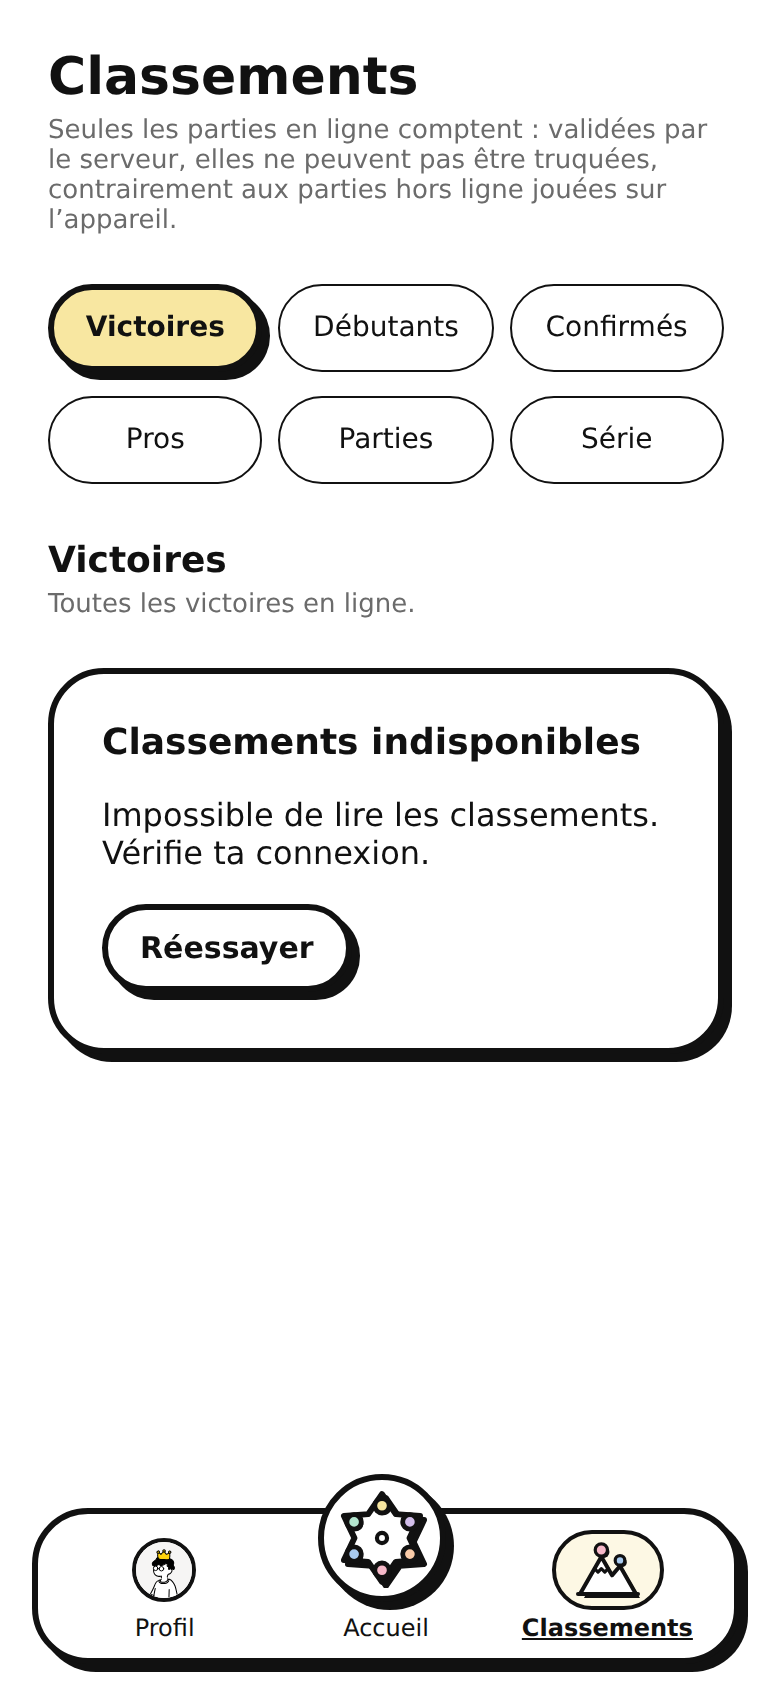
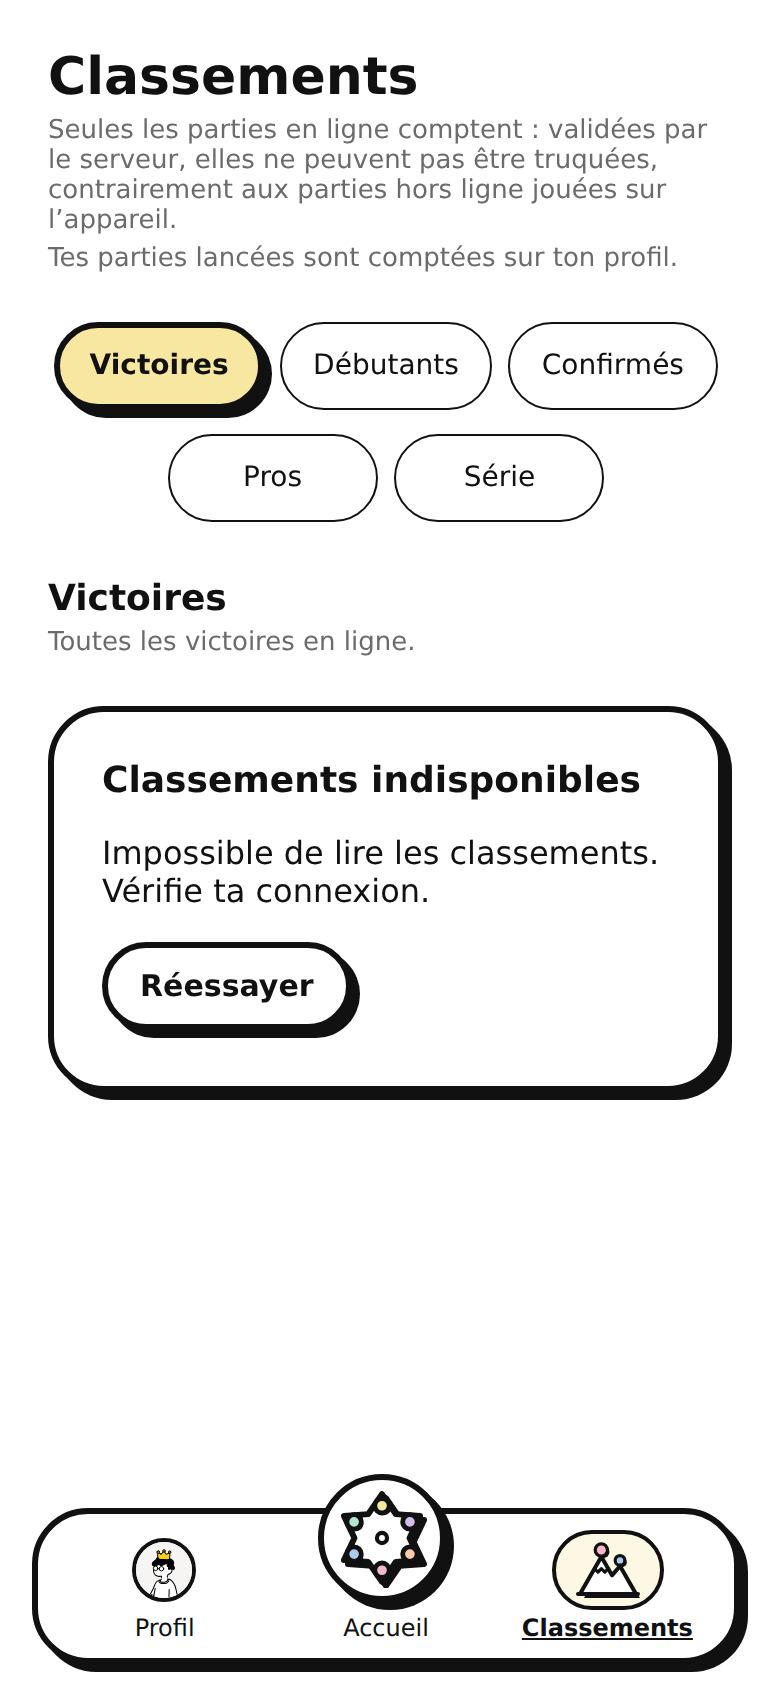
Drop the "games started" leaderboard, keep the count on the profile
- New migration redefines get_leaderboards with five boards (same
  signature and columns); games_started, its date and the counting in
  begin_game are unchanged, and players still read their own count.
- /leaderboard: five tabs (three then two, same width, centred); types,
  labels and service updated; rows for an unknown board are ignored.
- stats-check.sql: no games_started board any more, top 50 checked on
  the streak board, games_started still increments at launch.
- README/PLAN: five boards, and a note that leaderboards are not
  protected against scripts or colluding accounts (deliberate for now).
- Restore the repo's quote style in podium-badge.tsx.

Claude-Session: https://claude.ai/code/session_01YUV4RLnoNu5hBPVx7djLMc

diff --git a/src/components/leaderboard/podium-badge.tsx b/src/components/leaderboard/podium-badge.tsx
@@ -1,6 +1,6 @@
-import Svg, { Circle, Rect, Text as SvgText } from "react-native-svg";
+import Svg, { Circle, Rect, Text as SvgText } from 'react-native-svg';
 
-import { Colors, playerColor, Stroke, Typography } from "@/constants/theme";
+import { Colors, playerColor, Stroke, Typography } from '@/constants/theme';
 
 /** Marches du podium, de gauche à droite : 2e, 1er, 3e (boîte 42 × 36). */
 const STEPS = [
@@ -9,28 +9,19 @@ const STEPS = [
   { place: 3, x: 28, width: 13, height: 10 },
 ] as const;
 const GROUND = 34;
-/** Couleur du pion posé sur la marche du joueur. */
-const PION_COLORS = {
-  1: playerColor(3).piece,
-  2: playerColor(1).piece,
-  3: playerColor(5).piece,
-} as const;
+/** Joueur (couleur pastel) de chaque place : citron, bleu, pêche. */
+const PLACE_PLAYER = { 1: 3, 2: 1, 3: 5 } as const;
 
 /**
  * Podium dessiné pour les trois premiers : la marche du joueur est teintée,
  * porte son numéro et un pion. La place se lit donc à la forme (hauteur et
  * position de la marche) et au chiffre, pas seulement à la couleur.
  */
-export function PodiumBadge({
-  place,
-  size = 42,
-}: {
-  place: 1 | 2 | 3;
-  size?: number;
-}) {
+export function PodiumBadge({ place, size = 42 }: { place: 1 | 2 | 3; size?: number }) {
   const step = STEPS.find((s) => s.place === place)!;
   const top = GROUND - step.height;
   const cx = step.x + step.width / 2;
+  const color = playerColor(PLACE_PLAYER[place]);
   return (
     <Svg width={size} height={(size * 36) / 42} viewBox="0 0 42 36">
       {STEPS.map((s) => (
@@ -40,11 +31,7 @@ export function PodiumBadge({
           y={GROUND - s.height}
           width={s.width}
           height={s.height}
-          fill={
-            s.place === place
-              ? playerColor(s.place === 1 ? 3 : s.place === 2 ? 1 : 5).tint
-              : Colors.paper
-          }
+          fill={s.place === place ? color.tint : Colors.paper}
           stroke={Colors.ink}
           strokeWidth={s.place === place ? Stroke.bold * 0.8 : Stroke.thin}
         />
@@ -56,19 +43,11 @@ export function PodiumBadge({
         fontWeight="900"
         fontFamily={Typography.heading.fontFamily}
         fill={Colors.ink}
-        textAnchor="middle"
-      >
+        textAnchor="middle">
         {place}
       </SvgText>
       <Circle cx={cx + 0.8} cy={top - 4.2} r={3.6} fill={Colors.ink} />
-      <Circle
-        cx={cx}
-        cy={top - 5}
-        r={3.6}
-        fill={PION_COLORS[place]}
-        stroke={Colors.ink}
-        strokeWidth={Stroke.thin}
-      />
+      <Circle cx={cx} cy={top - 5} r={3.6} fill={color.piece} stroke={Colors.ink} strokeWidth={Stroke.thin} />
     </Svg>
   );
 }

diff --git a/src/stats/__tests__/leaderboard.test.ts b/src/stats/__tests__/leaderboard.test.ts
@@ -22,13 +22,12 @@ const row = (board: string, rank: number | null, pseudo: string, score: number, 
 });
 
 describe('classements', () => {
-  it('a six classements, dans l’ordre demandé', () => {
+  it('a cinq classements, dans l’ordre demandé (plus de « Parties lancées »)', () => {
     expect(BOARDS.map((b) => BOARD_INFO[b].title)).toEqual([
       'Victoires',
       'Hall des débutants',
       'Hall des confirmés',
       'Hall des pros',
-      'Parties lancées',
       'Série de connexion',
     ]);
   });
@@ -47,10 +46,10 @@ describe('classements', () => {
   });
 
   it('met à part la ligne du joueur hors du top 50', () => {
-    const top = Array.from({ length: 50 }, (_, i) => row('games_started', i + 1, `J${i + 1}`, 100 - i));
-    const views = groupLeaderboards([...top, row('games_started', 73, 'Moi', 4, true)]);
-    expect(views.games_started.top).toHaveLength(50);
-    expect(views.games_started.me).toMatchObject({ rank: 73, pseudo: 'Moi', score: 4, isMe: true });
+    const top = Array.from({ length: 50 }, (_, i) => row('best_streak', i + 1, `J${i + 1}`, 100 - i));
+    const views = groupLeaderboards([...top, row('best_streak', 73, 'Moi', 4, true)]);
+    expect(views.best_streak.top).toHaveLength(50);
+    expect(views.best_streak.me).toMatchObject({ rank: 73, pseudo: 'Moi', score: 4, isMe: true });
   });
 
   it('garde la ligne du joueur pas encore classé (rang null, score 0)', () => {
@@ -63,12 +62,17 @@ describe('classements', () => {
     expect(() => groupLeaderboards([row('triche', 1, 'X', 1000)])).not.toThrow();
   });
 
+  it('ignore les « parties lancées » d’un serveur pas encore migré', () => {
+    const views = groupLeaderboards([row('games_started', 1, 'Alice', 40), row('wins', 1, 'Alice', 2)]);
+    expect(Object.keys(views)).toEqual(['wins', 'wins_easy', 'wins_medium', 'wins_hard', 'best_streak']);
+    expect(views.wins.top).toHaveLength(1);
+  });
+
   it('écrit les scores avec leur unité, au singulier et au pluriel', () => {
     expect(formatUnit('wins_easy', 3)).toBe('victoires');
     expect(formatScore('wins', 0)).toBe('0 victoire');
     expect(formatScore('wins_hard', 1)).toBe('1 victoire');
     expect(formatScore('wins', 12)).toBe('12 victoires');
-    expect(formatScore('games_started', 2)).toBe('2 parties');
     expect(formatScore('best_streak', 1)).toBe('1 jour');
     expect(formatScore('best_streak', 30)).toBe('30 jours');
   });

diff --git a/src/stats/leaderboard.ts b/src/stats/leaderboard.ts
@@ -1,7 +1,8 @@
-// Classements : les six tableaux, et la mise en forme des lignes renvoyées par
+// Classements : les cinq tableaux, et la mise en forme des lignes renvoyées par
 // la fonction SQL `get_leaderboards` (migration player_stats). Logique pure.
 
-export const BOARDS = ['wins', 'wins_easy', 'wins_medium', 'wins_hard', 'games_started', 'best_streak'] as const;
+// Les parties lancées sont comptées (profil) mais ne font pas l'objet d'un classement.
+export const BOARDS = ['wins', 'wins_easy', 'wins_medium', 'wins_hard', 'best_streak'] as const;
 
 export type Board = (typeof BOARDS)[number];
 
@@ -31,7 +32,6 @@ export const BOARD_INFO: Record<Board, BoardInfo> = {
     tab: 'Pros',
     description: 'Victoires en ligne contre au moins une IA difficile.',
   },
-  games_started: { title: 'Parties lancées', tab: 'Parties', description: 'Parties en ligne lancées avec les autres joueurs.' },
   best_streak: {
     title: 'Série de connexion',
     tab: 'Série',
@@ -88,12 +88,10 @@ export function groupLeaderboards(rows: readonly LeaderboardRow[]): Record<Board
   return views;
 }
 
-/** Unité d'un score, accordée : « victoire », « parties », « jours »… */
+/** Unité d'un score, accordée : « victoire », « victoires », « jours »… */
 export function formatUnit(board: Board, score: number): string {
   const plural = score > 1 ? 's' : '';
   switch (board) {
-    case 'games_started':
-      return `partie${plural}`;
     case 'best_streak':
       return `jour${plural}`;
     default:
@@ -101,7 +99,7 @@ export function formatUnit(board: Board, score: number): string {
   }
 }
 
-/** Score avec son unité : « 1 victoire », « 12 parties », « 3 jours ». */
+/** Score avec son unité : « 1 victoire », « 12 victoires », « 3 jours ». */
 export function formatScore(board: Board, score: number): string {
   return `${score} ${formatUnit(board, score)}`;
 }

diff --git a/src/app/(main)/leaderboard.tsx b/src/app/(main)/leaderboard.tsx
@@ -46,7 +46,7 @@ type Load =
   | { status: 'error' }
   | { status: 'ready'; views: Record<Board, BoardView> };
 
-/** Six classements, choisis par onglets ; lus en un seul appel au serveur. */
+/** Cinq classements, choisis par onglets ; lus en un seul appel au serveur. */
 export default function LeaderboardScreen() {
   const edges = useScreenEdges();
   const { configured, loading, session } = useAuth();
@@ -78,6 +78,7 @@ export default function LeaderboardScreen() {
             Classements
           </Text>
           <Text style={Typography.caption}>{ONLINE_ONLY}</Text>
+          <Text style={Typography.caption}>Tes parties lancées sont comptées sur ton profil.</Text>
         </View>
         {body}
       </ScrollView>
@@ -236,16 +237,16 @@ const styles = StyleSheet.create({
   boardTitles: {
     gap: Spacing.one,
   },
-  // Deux rangées de trois onglets de même largeur.
   tabs: {
     flexDirection: 'row',
     flexWrap: 'wrap',
+    justifyContent: 'center',
     rowGap: Spacing.two,
     columnGap: Spacing.one,
   },
+  // Même largeur pour tous : trois onglets puis deux, centrés.
   tabWrapper: {
-    flexBasis: '31%',
-    flexGrow: 1,
+    flexBasis: '32%',
     paddingRight: Shadow.offset,
     paddingBottom: Shadow.offset,
   },

diff --git a/src/stats/stats-service.ts b/src/stats/stats-service.ts
@@ -43,7 +43,7 @@ export async function fetchMyStats(client: SupabaseClient, userId: string): Prom
   };
 }
 
-/** Les six classements (50 premiers de chacun, plus la ligne du joueur). */
+/** Les cinq classements (50 premiers de chacun, plus la ligne du joueur). */
 export async function fetchLeaderboards(client: SupabaseClient): Promise<LeaderboardRow[]> {
   const { data, error } = await client.rpc('get_leaderboards');
   if (error) throw error;

diff --git a/README.md b/README.md
@@ -116,7 +116,7 @@ Il vérifie aussi la migration `rooms` (`supabase/checks/rooms-check.sql`) : lec
 de la room, aucune écriture directe, salle d'attente, lancement, fin de partie ; et la migration
 `player_stats` (`supabase/checks/stats-check.sql`) : aucune écriture par les clients, parties lancées,
 victoires (niveau de l'IA la plus forte, idempotence, forfaits et abandons exclus), séries de connexion,
-classements (départage, top 50, ligne du joueur).
+classements (cinq, sans les parties lancées ; départage, top 50, ligne du joueur).
 
 ## Jeu en ligne
 
@@ -204,7 +204,7 @@ double grâce au verrou de version.
 
 | Statistique | Quand | Par qui |
 | ----------- | ----- | ------- |
-| Parties lancées | +1 pour chaque joueur humain de la room quand l'hôte lance une partie en ligne | `begin_game` (appelée par l'Edge Function), dans la transaction du lancement |
+| Parties lancées (profil seulement, pas de classement) | +1 pour chaque joueur humain de la room quand l'hôte lance une partie en ligne | `begin_game` (appelée par l'Edge Function), dans la transaction du lancement |
 | Victoires (toutes confondues) | un humain gagne une partie en ligne en remplissant sa branche (`end_reason = 'win'`) | `record_game_win` (appelée par l'Edge Function après l'écriture de la partie) |
 | Victoires contre une IA facile, moyenne, difficile | même victoire, si la partie contenait au moins une IA : rangée au niveau de l'**IA la plus forte** présente (et comptée aussi dans « toutes victoires ») | idem |
 | Série de connexion, meilleure série | à l'ouverture de l'application (et au retour au premier plan), une fois par jour | `record_daily_login`, appelée par l'application |
@@ -224,6 +224,13 @@ double grâce au verrou de version.
   jour manqué : retour à 1. La meilleure série suit. Les invités ont aussi leur série. L'appel se fait en
   arrière-plan depuis le contexte d'authentification : il ne bloque pas l'affichage et un échec (hors ligne) est
   simplement réessayé au prochain retour dans l'application.
+- **Parties lancées** : toujours comptées et affichées sur le profil, mais sans classement (retiré par simplicité,
+  migration `20261004120000_leaderboards_without_games_started.sql`).
+- **Limite assumée** : les classements ne sont pas protégés contre les scripts (un joueur qui automatise des
+  parties en ligne contre des IA faciles) ni contre les comptes qui s'entraident (des amis, ou plusieurs comptes
+  d'une même personne, qui se laissent gagner à tour de rôle). Il n'y a ni nombre minimal de coups pour qu'une
+  victoire compte, ni plafond de victoires par jour. C'est un choix assumé pour cette version : le serveur garantit
+  seulement que chaque victoire comptée est une vraie partie en ligne, jouée coup par coup et validée par le moteur.
 
 ### Intégrité
 
@@ -231,7 +238,7 @@ double grâce au verrou de version.
   `insert`, `update` ni `delete`, et ne lisent que leur propre ligne (profil). `stats_wins` leur est invisible.
 - `record_game_win` et `advance_login_streak` ne sont pas appelables par les clients (seulement la clé
   `service_role` de l'Edge Function pour la première, rien pour la seconde).
-- `get_leaderboards()` (joueurs connectés, invités compris) renvoie, pour chacun des 6 classements, les
+- `get_leaderboards()` (joueurs connectés, invités compris) renvoie, pour chacun des 5 classements, les
   50 premiers et la ligne du joueur lui-même, même plus loin : **pseudo, avatar, score, rang** et `is_me`, rien
   d'autre. L'avatar est `profiles.avatar`, ou à défaut l'identifiant du joueur, qui sert de graine à son avatar
   par défaut (les profils sont de toute façon lisibles par les joueurs connectés). Seuls les scores positifs
@@ -239,15 +246,15 @@ double grâce au verrou de version.
 
 ### Écrans
 
-- **Classements** (`/leaderboard`) : six onglets (Victoires, Hall des débutants, Hall des confirmés, Hall des pros,
-  Parties lancées, Série de connexion), chargés en un seul appel et relus à chaque retour sur l'écran. Chaque ligne :
+- **Classements** (`/leaderboard`) : cinq onglets (Victoires, Hall des débutants, Hall des confirmés, Hall des pros,
+  Série de connexion, la plus haute série atteinte), chargés en un seul appel et relus à chaque retour sur l'écran. Chaque ligne :
   rang (podium dessiné pour les trois premiers : marche de la bonne hauteur, numéro et pion), avatar, pseudo,
   score. Sa propre ligne est teintée, marquée d'un trait épais et de « C'est toi », et répétée en bas quand on est
   hors du top 50 (ou pas encore classé). États de chargement, d'erreur (« Réessayer ») et de classement vide ;
   invitation à se connecter ; message clair sans configuration Supabase.
 - **Profil** : victoires, parties lancées, série actuelle et meilleure série.
 
-Code : `supabase/migrations/20261003120000_player_stats.sql`, `src/stats/` (appels à Supabase, mise en forme
+Code : `supabase/migrations/20261003120000_player_stats.sql` et `20261004120000_leaderboards_without_games_started.sql`, `src/stats/` (appels à Supabase, mise en forme
 des classements, jour de Paris et séries, connexion du jour), `src/app/(main)/leaderboard.tsx`,
 `src/components/profile-stats.tsx`.
 
@@ -508,7 +515,7 @@ minimax classique.
 3. ~~IA hors ligne à trois niveaux, de 1 à 5 adversaires.~~ Fait.
 4. ~~Comptes et parties en ligne avec Supabase.~~ Fait.
 5. ~~Finitions de l'interface, EAS Build.~~ Fait.
-6. ~~Barre de navigation, statistiques et classements (comptés côté serveur).~~ Fait.
+6. ~~Barre de navigation, statistiques et cinq classements (comptés côté serveur).~~ Fait.
 7. Notifications « c'est ton tour », amis, publication sur les stores.
 
 ## Inspiration

diff --git a/docs/PLAN.md b/docs/PLAN.md
@@ -124,7 +124,11 @@ Configure EAS Build (eas.json) pour Android et iOS. Ouvre une pull request.
   connexion : groupe de routes `(main)` avec un layout personnalisé.
 - Table `player_stats` écrite uniquement côté serveur : parties lancées (`begin_game`), victoires
   (`record_game_win`, appelée par l'Edge Function `game-action`), série de connexion (`record_daily_login`).
-- Six classements (`get_leaderboards`), écran `/leaderboard`, statistiques sur le profil.
+- Cinq classements (`get_leaderboards`) : victoires, halls des débutants, des confirmés et des pros, série de
+  connexion. Les parties lancées restent comptées et affichées sur le profil, sans classement.
+- Écran `/leaderboard`, statistiques sur le profil.
+- Pas de garde-fou contre les scripts ou les comptes qui s'entraident (ni nombre minimal de coups, ni plafond
+  journalier) : choix assumé pour cette version.
 - Les parties locales ne comptent pas (non vérifiables par le serveur).
 
 ## Plus tard : amis
